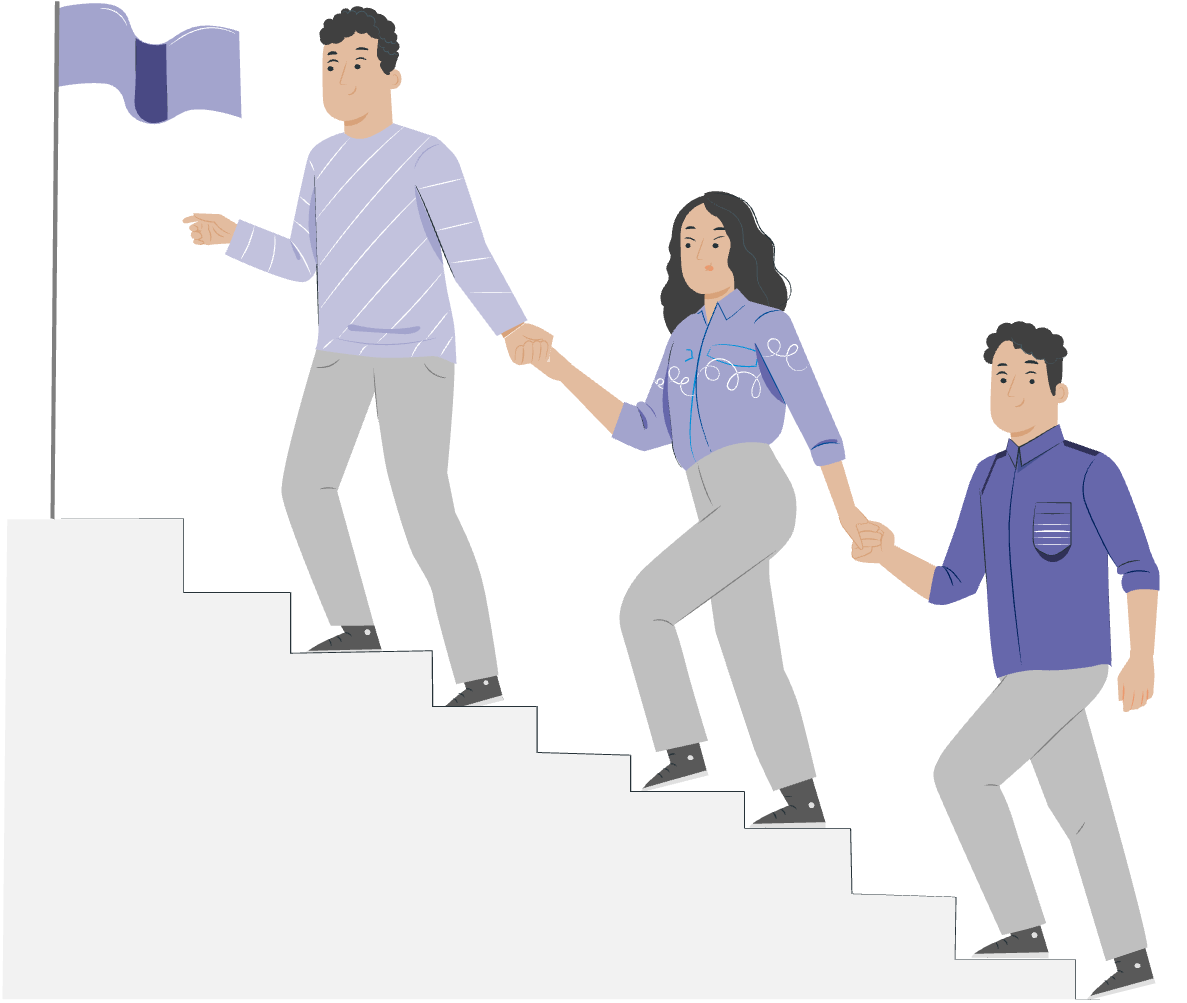
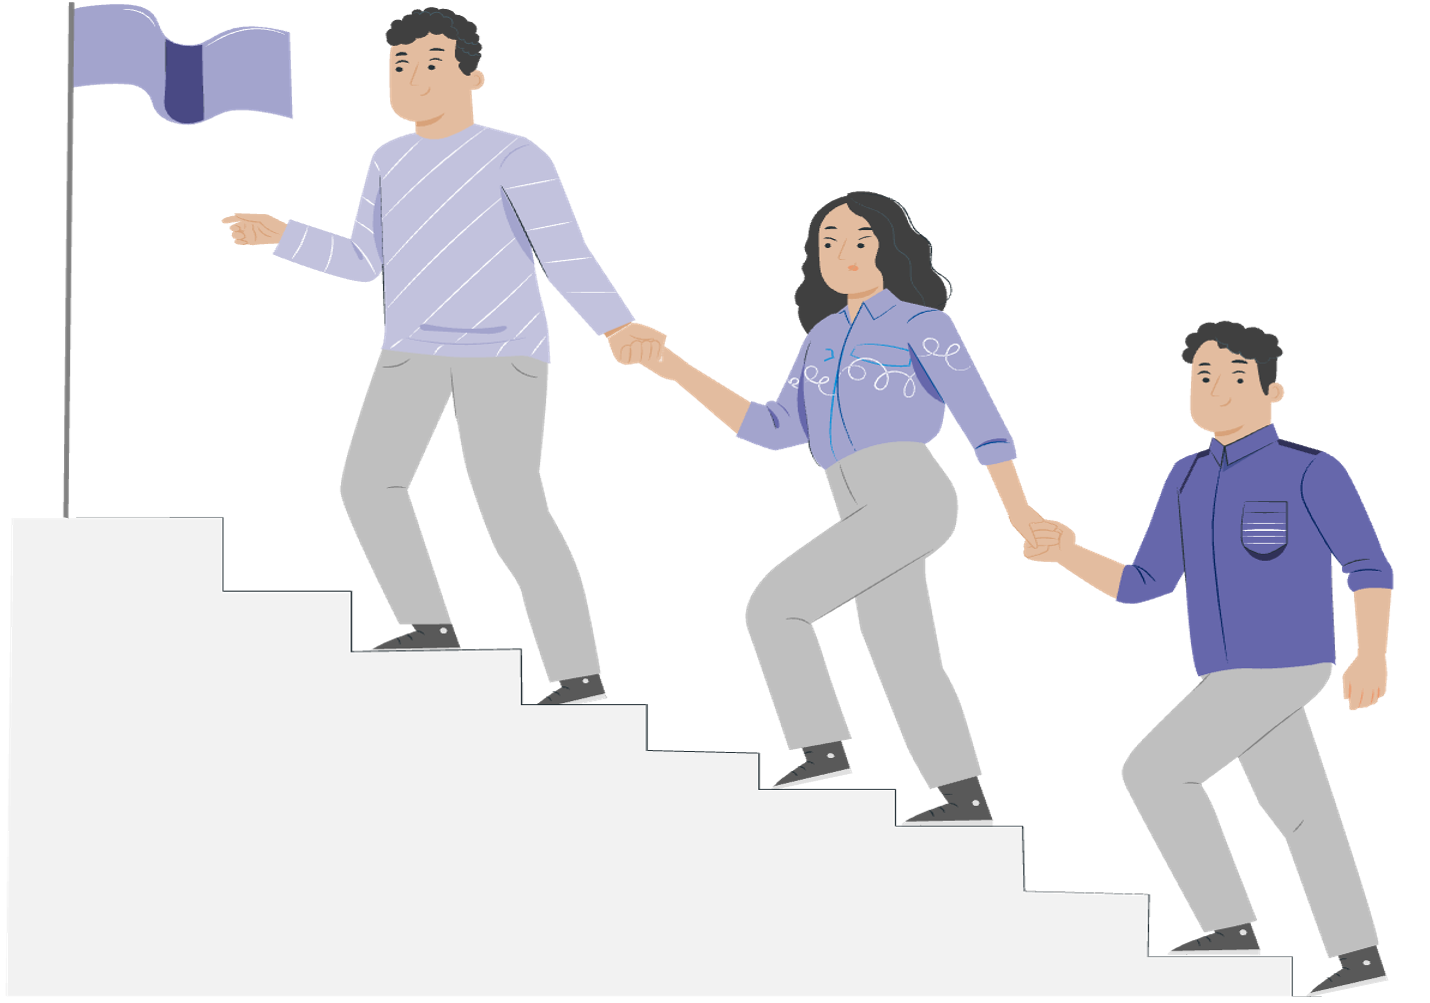
Add files via upload

diff --git a/index.html b/index.html
@@ -241,7 +241,7 @@
             </div>
             </div>
             <div class="col-md-6">
-              <img src="svg/undraw_mobile_marketing_iqbr.svg" class="img-fluid" alt="">
+              <img src="svg/team.png" class="img-fluid" alt="">
             </div>
         </div>
       </div>
@@ -258,14 +258,17 @@
             <h2> ПОВЫШЕНИЕ УСПЕВАЕМОСТИ</h2>
             <p>
               Занятия по техническим предметам с репетитором позволят не просто
-               повысить успеваемость, но и привить любовь к предмету буквально за пару 
-               занятий. Благодаря индивидуальному плану обучения наши студенты успешно 
-               сдают все контрольные работы, ВПР, МЦКО и поступают в Математическую вертикаль.
-                Наши репетиторы находят персональный подход к каждому ученику, что позволяет
-                 донести трудный материал простыми, понятными словами за короткое время. 
-                 Подбор репетитора осуществляется согласно твоим запросам и требованиям. 
-                 Занятия проходят индвидуально, дистанционно и очно.
-                </p>
+               повысить успеваемость, но и привить любовь к предмету буквально за пару занятий. 
+              </p>
+              <p>
+                Наши студенты успешно сдают все контрольные работы, ВПР,
+                МЦКО и поступают в Математическую вертикаль. 
+              </p>
+              <p>
+                Подбор репетитора осуществляется согласно твоим запросам и требованиям. 
+                Мы находим персональный подход к каждому ученику, что позволяет донести 
+                трудный материал простыми, понятными словами за короткое время.
+              </p>
             <a href="#" class="link-play">
               <!--<img src="svg/zap.png" alt="" class="play-btn">-->
               <button type="button" class="btn btn-primary"  name="button" onclick="window.location.href='#';">
@@ -287,17 +290,21 @@
           <div class="col-md-6 services">
             <h2> ПОДГОТОВКА К ЭКЗАМЕНАМ</h2>
             <p>
-              Подготовка к ЕГЭ, ОГЭ и вступительным испытаниям в ведущие ВУЗы
-               с репетитором позволяет в полной мере учесть уровень подготовки
-                студента и вывести его знания на новый уровень. Наши ученики сдают 
-                ОГЭ на 4-5 и получают 80+ баллов по результатам сдачи ЕГЭ. Мы подбираем 
-                репетитора, учитывая твой запрос и уровень успеваемости. Наша команда 
-                нацелена на твой успех в поступлении в ведущие ВУЗы страны. Каждый год 
-                наши ученики успешно поступают в желаемый ВУЗ, благодаря индвидуальному
-                 подходу к каждому студенту и “фишкам”, которые знают только наши репетиторы.
-                  Мы предлагаем два формата обучения на выбор: индвидуальные занятия или 
-                  занятия в мини-группах.
-                </p>
+              Подготовка к ЕГЭ, ОГЭ и вступительным испытаниям в ведущие ВУЗы 
+              с репетитором позволяет в полной мере учесть уровень подготовки 
+              студента и вывести его знания на новый уровень. 
+            </p>
+            <p>
+              Наши ученики сдают ОГЭ на 4-5 и получают 80+ баллов по результатам 
+              сдачи ЕГЭ. Наша команда нацелена на твой успех в поступлении в ведущие 
+              ВУЗы страны. Каждый год наши ученики успешно поступают в желаемый ВУЗ 
+              благодаря персональному подходу к каждому студенту и “фишкам”, которые 
+              знают только наши репетиторы.
+            </p>
+            <p>
+              Мы предлагаем два формата обучения на выбор: индвидуальные занятия 
+              или занятия в мини-группах.
+            </p>
             <a href="#" class="link-play">
               <!--<img src="svg/zap.png" alt="" class="play-btn">-->
               <button type="button" class="btn btn-primary"  name="button" onclick="window.location.href='#';"> 
@@ -319,15 +326,21 @@
           <div class="col-md-6 services">
             <h2> ПОДГОТОВКА К ОЛИМПИАДАМ</h2>
             <p>
-              Подготовка к олимпиаде с репетитором является самой надежной и эффективной.
-               Наши студенты входили в топ-10 победителей Всероссийской олимпиады школьников
-                и поступали в лучшие ВУЗы страны. Мы составляем индвивидуальный план подготовки 
-                для каждого ученика. План может дополняться или изменяться исходя из запросов 
-                и возможностей студента. Разбираются все темы и этапы олимпиад. После каждого 
-                урока ученику будет выдаваться тест для самостоятельного прохождения с целью 
-                закрепления материала. Все вопросы по тесту ученик может задать репетитору в формате
-                 онлайн или на следующем уроке.
-                </p>
+              Подготовка к олимпиаде с репетитором является самой надежной и эффективной. 
+            </p>
+            <p>
+              Наши студенты входят в топ-10 победителей Всероссийской 
+              олимпиады школьников и поступают в лучшие ВУЗы страны.
+            </p>
+            <p>
+              Мы составляем индвивидуальный план подготовки для каждого ученика. 
+              План может дополняться или изменяться исходя из запросов и возможностей студента. 
+            </p>
+            <p>
+              Разбираются все темы и этапы олимпиад. После каждого урока ученику будет выдаваться 
+              тест для самостоятельного прохождения с целью закрепления материала. Все вопросы по 
+              тесту ученик может задать репетитору в формате онлайн или на следующем уроке.
+            </p>
             <a href="#" class="link-play">
               <!--<img src="svg/zap.png" alt="" class="play-btn">-->
               <button type="button" class="btn btn-primary"  name="button" onclick="window.location.href='#';"> 

diff --git a/css/style.css b/css/style.css
@@ -80,7 +80,7 @@ body{font-family: sans-serif;background-color: #888;-webkit-font-smoothing: anti
   transform: scale(1.2);
 }
 /* -----------   Format -------------*/
-#format{background-color: #b1b2d2; color:#fff; font-size: larger; padding-bottom: 3rem; padding-top: 3rem;}
+#format{background-color: #b1b2d2; color:#fff; font-size: larger; padding-bottom: 3rem; padding-top: 1rem;}
 
 #format ul li{margin: 20px 40px;}
 #format ul{margin-left: 20px;}
@@ -93,7 +93,7 @@ body{font-family: sans-serif;background-color: #888;-webkit-font-smoothing: anti
   background: #696aa7;
   transition: transform 0.5s;
 }
-.prep{ min-height: 400px;
+.prep{ min-height: 350px; min-width: 350px;
 font-size: x-large;}
 .prep img{width: 50px; transform: translate(0px, -20px);}
 .predm{
@@ -131,7 +131,7 @@ font-size: x-large;}
   }
 #usp img{width: 275px;}
 #usp p{
-  margin: 60px 0;
+  margin: 40px 0;
    text-align: left;
   }
 #usp .btn-primary{
@@ -155,7 +155,7 @@ font-size: x-large;}
   }
 #ekz img{width: 275px;}
 #ekz p{
-  margin: 60px 0;
+  margin: 40px 0;
   text-align: left;
 }
 #ekz .btn-primary{
@@ -179,7 +179,7 @@ font-size: x-large;}
   }
 #olimp img{width: 275px;}
 #olimp p{
-  margin: 60px 0;
+  margin: 40px 0;
   text-align: left;
 }
 #olimp .btn-primary{
